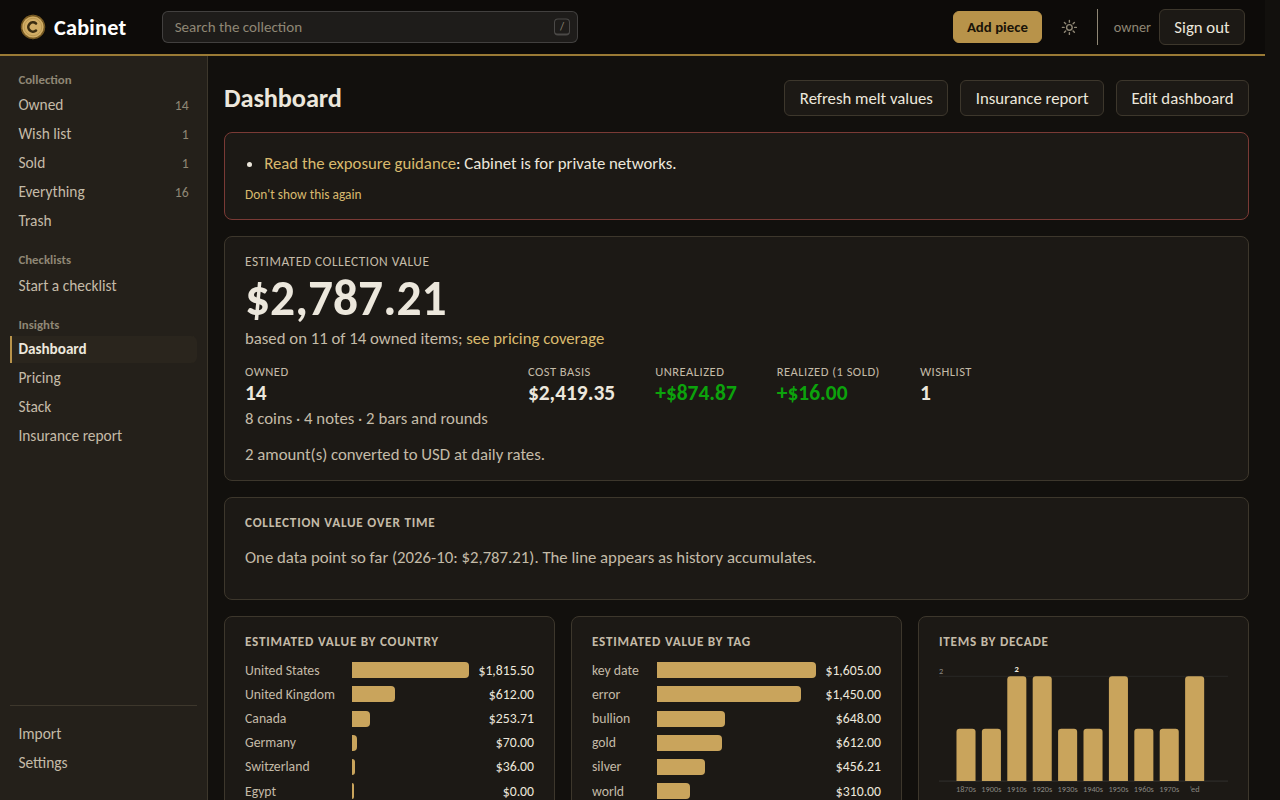
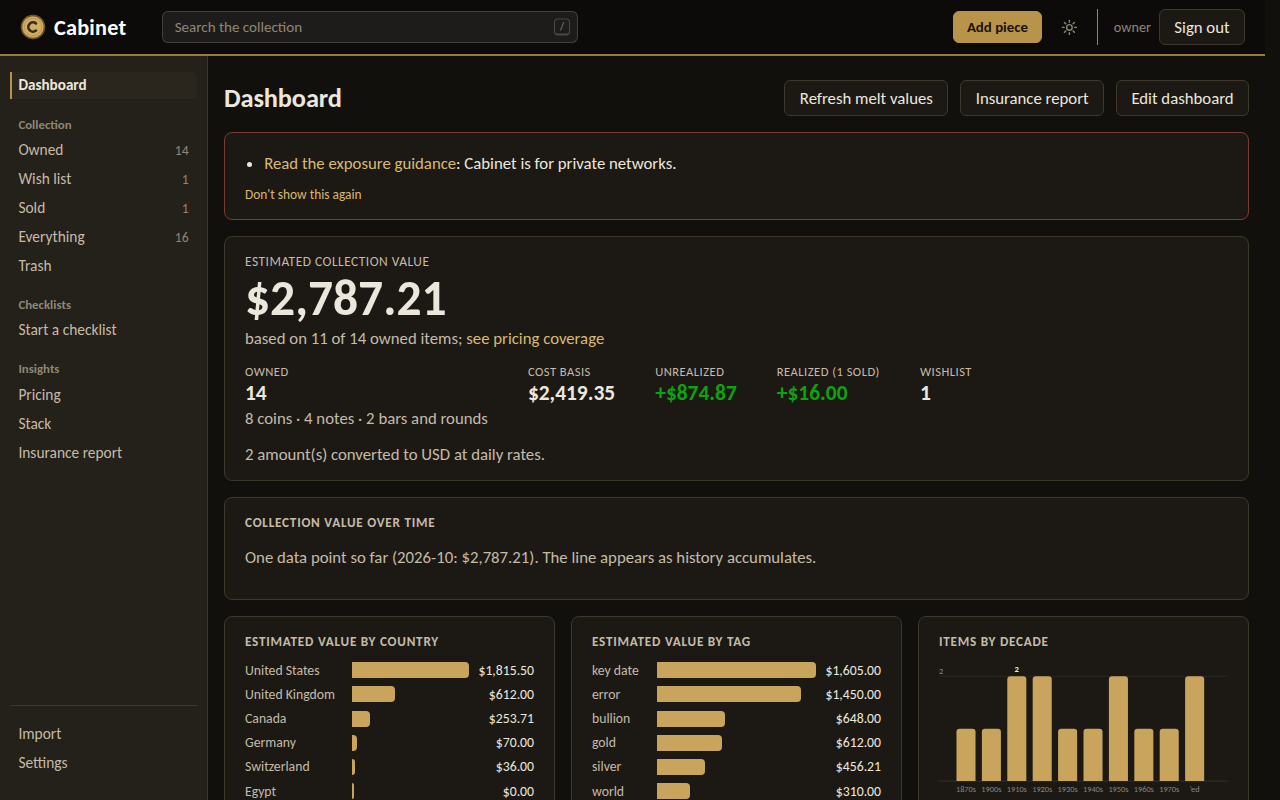
v0.34.1: the dashboard first, and sortable list headings
Version 0.34.1, the changelog dated, the README screenshots retaken with
the dashboard first in the sidebar, and the docs that name the current
release brought up to it.

Changed region(s): [[0.0, 0.0938, 0.0938, 0.5938]]

diff --git a/CLAUDE.md b/CLAUDE.md
@@ -3,7 +3,7 @@
 Cabinet is a single-user, self-hosted web application for managing a coin and
 paper money collection. Subtitle: "Numismatics: Coin & Paper Money Collection
 Manager." Repo name is `cabinet-numismatics`; UI/display name is "Cabinet";
-the OpenAPI title is "Cabinet API." **Public on GitHub under MIT, released as v0.34.0, and deployed on the owner's
+the OpenAPI title is "Cabinet API." **Public on GitHub under MIT, released as v0.34.1, and deployed on the owner's
 homelab Docker Swarm from the published GHCR images**, so treat it as
 an open-source project: keep CONTRIBUTING/CHANGELOG/docs current, and bump the
 version in `backend/pyproject.toml` (surfaced by `GET /api/health`) with the
@@ -121,7 +121,7 @@ scripts/                 backup.sh, restore.sh, seed_demo.py
 
 ## Current status & next step
 
-Released as v0.34.0: roadmap Phase 7 is complete, migrations
+Released as v0.34.1: roadmap Phase 7 is complete, migrations
 `0001`–`0022` and `a0001`–`a0002`. v0.27.1 fixed two bugs found entering real pieces: a year is
 now optional (an ND checkbox with an optional attributed year), and a
 same-year Numista variety with no prices no longer blocks the one that has
@@ -330,7 +330,7 @@ the internet, whatever sign-in method or gateway sits in front, and the
 same paragraph is copied verbatim into security.md, README.md, SECURITY.md,
 and `.env.example`. Review briefs and reviews stay local (gitignored), as
 they have since v0.33.0's spec was reviewed.
-**v0.34.0 (14 October 2026)** shipped the workbench layout: a sidebar shell, the collection as a list with the selected piece in an inspector, facts edited in place, and a lookup-first quick add at `/items/add`; see "The workbench layout" in the implementation notes.
+**v0.34.0 (14 October 2026)** shipped the workbench layout: a sidebar shell, the collection as a list with the selected piece in an inspector, facts edited in place, and a lookup-first quick add at `/items/add`; see "The workbench layout" in the implementation notes. v0.34.1 put the dashboard first in the sidebar and made the list's Piece, Grade, and Value headings sort it (`sort=name` mirrors the row title).
 **Next, in order:** the road to v1.0.0's remaining items (a CI check
 against a breaking OpenAPI change, "Add a run" and the Numista banknote
 mapping confirmed against a live account, and a README and quick-start

diff --git a/README.md b/README.md
@@ -6,14 +6,14 @@
 
 [![CI](https://github.com/jsaumer/cabinet-numismatics/actions/workflows/ci.yml/badge.svg)](https://github.com/jsaumer/cabinet-numismatics/actions/workflows/ci.yml)
 [![License: MIT](https://img.shields.io/badge/license-MIT-blue.svg)](LICENSE)
-![Version](https://img.shields.io/badge/version-0.34.0-informational)
+![Version](https://img.shields.io/badge/version-0.34.1-informational)
 
 A self-hosted, single-user web application for cataloging a coin and paper
 money collection, managing photos of each item, and tracking estimated market
 value over time. Runs as a small Docker Compose stack; no external accounts
 or API keys required.
 
-**Status: v0.34.0 released.** 1.0 will mean a stable HTTP API; until then
+**Status: v0.34.1 released.** 1.0 will mean a stable HTTP API; until then
 the API may still change. See the [roadmap](docs/roadmap.md) for what's
 built and what's next, and the [changelog](CHANGELOG.md) for release detail.
 
@@ -379,7 +379,7 @@ from `.env.example`).
 | `TRUSTED_ASSERTION_ISSUER` | Optional: the `iss` the gateway's assertion must carry |
 | `TRUSTED_ASSERTION_AUDIENCE` | Optional: the `aud` the gateway's assertion must carry; never empty |
 | `SSO_CA_FILE`     | Optional: extra CA certificates trusted for a single sign-on provider or trusted-header gateway behind a local certificate authority |
-| `TAG`             | Optional, default `latest`: the image tag Compose names its builds with and the Swarm stack pulls, e.g. `0.34.0` |
+| `TAG`             | Optional, default `latest`: the image tag Compose names its builds with and the Swarm stack pulls, e.g. `0.34.1` |
 
 External data sources (both free, keyless, and only contacted when needed,
 with cached fallbacks): gold-api.com for metal spot prices and

diff --git a/docs/roadmap.md b/docs/roadmap.md
@@ -7,8 +7,8 @@ cataloging, valuation, and insights. Open-sourcing is a possible endgame, so
 phases that matter for that (docs, packaging, polish) are called out explicitly
 rather than assumed.
 
-**Status (October 2026): v0.34.0 (the workbench layout) is the latest
-published release**, with versioned images published to GHCR from each
+**Status (October 2026): v0.34.1 (the workbench layout, with sortable
+list headings) is the latest published release**, with versioned images published to GHCR from each
 tagged release and running on a homelab Docker Swarm. Phases 0–5 are
 built, pricing-program M1–M5 are done (settings
 backbone, the Numista and PCGS adapters, per-source value display with a
@@ -770,6 +770,9 @@ pieces turned up, each shipped as a small release:
   with the selected piece open beside it, facts edited in place, and a
   lookup-first quick add (one box for a name, a Numista number, or a PCGS
   cert).
+- ✔ v0.34.1: the first look at 0.34.0 asked for the dashboard at the top
+  of the sidebar and list headings that sort: Piece A to Z by the row's
+  title, Grade and Value high to low, each flipping on a second click.
 
 Confirmed against the real services along the way: the PCGS cert fill,
 grade and designation parsing, and PCGS pricing. Still to confirm: "Add a

diff --git a/docs/architecture.md b/docs/architecture.md
@@ -186,7 +186,7 @@ app's Settings page and stored in the database.
 | `IMPORT_DIR`      | Where uploaded import files wait between preview and import (default: a temp folder; kept a day) |
 | `RESTORE_ENABLED` | In-app restore (default `true`); `false` makes every restore endpoint answer 404 and hides it in Settings |
 | `RESTORE_MAX_GB`  | Largest archive that may be uploaded for a restore, in GB (default `20`, which is also what nginx allows) |
-| `TAG`             | Image tag Compose names its builds with and the Swarm stack pulls (default `latest`; e.g. `0.34.0`) |
+| `TAG`             | Image tag Compose names its builds with and the Swarm stack pulls (default `latest`; e.g. `0.34.1`) |
 | `PUBLIC_ORIGINS`  | Required. The exact origins browsers use (`https://cabinet.example.com`), comma-separated; read by the backend (checked at start) and the proxy (its Host names) |
 | `ALLOWED_HOSTS`   | Extra Host names nginx answers (`cabinet_proxy`, a LAN name); any other Host gets no response |
 | `AUTH_INSECURE_HTTP` | Sign-in cookies without `Secure`, for a plain-http local stack; refused beside an https origin (default `false`) |

diff --git a/docs/deployment.md b/docs/deployment.md
@@ -75,7 +75,7 @@ Edit `.env`:
   answer 404 and `scripts/restore.sh` is the only way).
 - `RESTORE_MAX_GB` (optional, default `20`): the largest archive that may be
   uploaded for a restore. The bundled nginx allows 20 GB.
-- `TAG` (optional): pins the image tag, e.g. `TAG=0.34.0`. `--build` builds
+- `TAG` (optional): pins the image tag, e.g. `TAG=0.34.1`. `--build` builds
   locally whatever the tag; without `--build`, Compose pulls the published
   image of that tag from GHCR instead.
 
@@ -894,7 +894,7 @@ git clone https://github.com/jsaumer/cabinet-numismatics.git
 cd cabinet-numismatics
 cp .env.example .env        # edit secrets
 set -a; . ./.env; set +a    # stack deploy reads the shell, not .env
-TAG=0.34.0 CABINET_PORT=8080 docker stack deploy -c deploy/docker-stack.yaml cabinet
+TAG=0.34.1 CABINET_PORT=8080 docker stack deploy -c deploy/docker-stack.yaml cabinet
 ```
 
 `PUBLIC_ORIGINS` and `CABINET_PORT` are required by the stack file (deploy

diff --git a/CHANGELOG.md b/CHANGELOG.md
@@ -8,7 +8,7 @@ Database changes always ship as Alembic revisions. From 0.11.1 the backend
 applies them itself on startup; for earlier releases, run
 `docker compose exec backend alembic upgrade head` after upgrading.
 
-## [Unreleased]
+## [0.34.1] - 2026-10-14
 
 ### Changed
 
@@ -23,6 +23,8 @@ applies them itself on startup; for earlier releases, run
 - `GET /api/items` takes `sort=name` (the list's title, case-insensitive),
   and `sort=grade` now puts ungraded pieces last in both directions, as the
   other mostly-empty sorts already did.
+- The README screenshots are retaken with the dashboard first in the
+  sidebar.
 
 ## [0.34.0] - 2026-10-14
 

diff --git a/docs/backup-restore.md b/docs/backup-restore.md
@@ -144,7 +144,7 @@ encrypts every archive and keys its MAC.
   docker compose run --rm backend python -m app.cli backup-key new
   ```
 
-  (or `docker run --rm ghcr.io/jsaumer/cabinet-numismatics-backend:0.34.0
+  (or `docker run --rm ghcr.io/jsaumer/cabinet-numismatics-backend:0.34.1
   python -m app.cli backup-key new` where the stack isn't running). It
   prints a key in `age-keygen`'s format: save the whole output as the
   secret file, or put the `AGE-SECRET-KEY-1...` line in `BACKUP_KEY`. Keep
